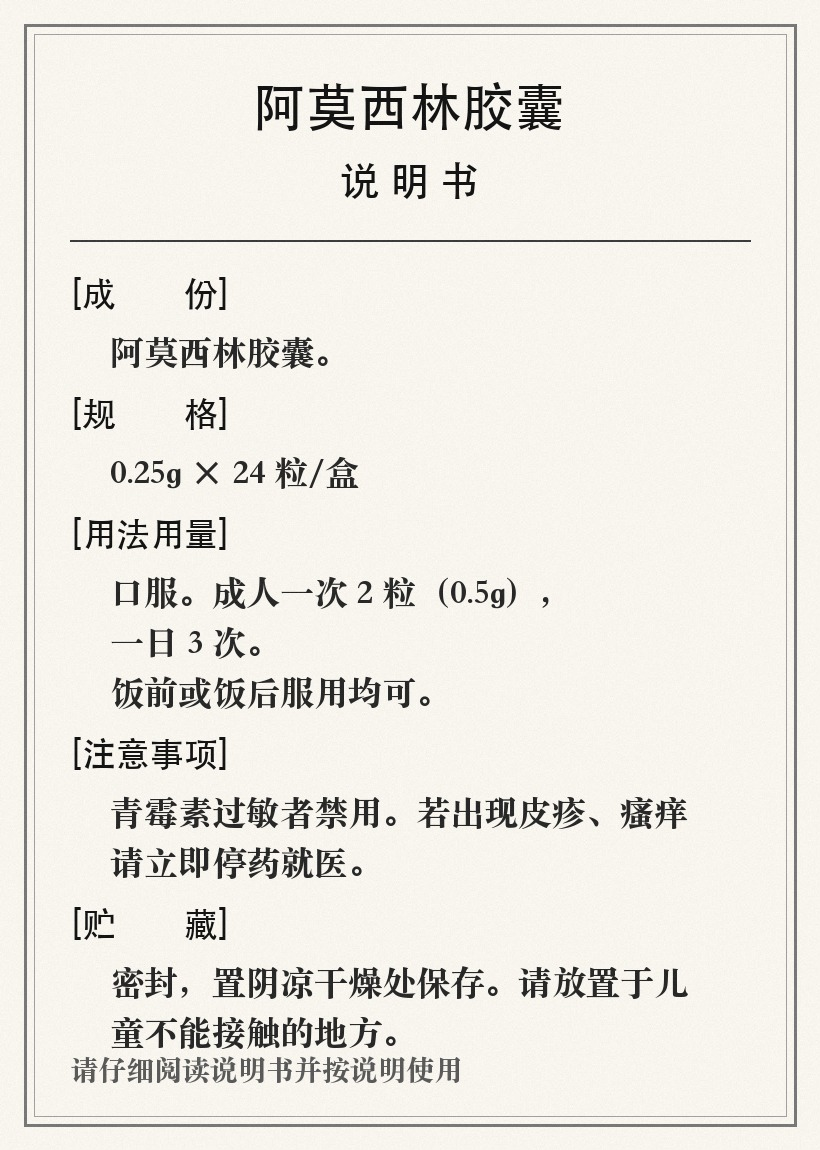
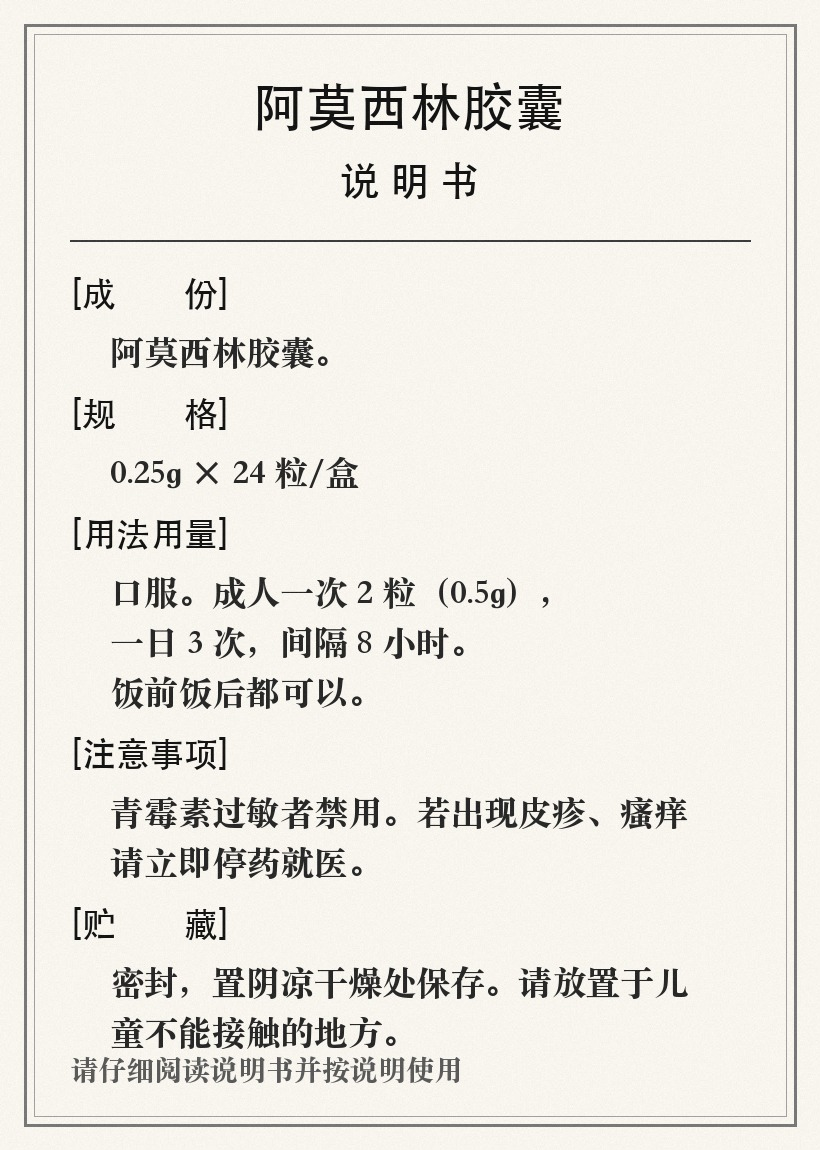
assets: 说明书图逐字对齐 mock.md 8种药JSON（阿莫西林/二甲双胍缓释片/布洛芬缓释胶囊），素材清单标注零AI方案下的新用途

Changed region(s): [[0.2134, 0.5478, 0.5488, 0.6391]]

diff --git a/素材收集清单.md b/素材收集清单.md
@@ -8,6 +8,7 @@
 ## A. 图片素材（给 VLM 图片理解用，存入 `assets/images/`）
 
 > ✅ 已全部生成本地文件（PIL 程序绘制，无版权风险，演示不依赖网络）。
+> ⚠ 方案定稿为零 AI 纯前端：A1/A2/A4/A5/A6 原定「VLM 接口测试」用途降级为**备用**（评委追问识别能力时可展示）；A3 说明书图升级为路演核心道具。
 
 | # | 素材 | 文件 | 用途 | 状态 |
 |---|---|---|---|---|
@@ -19,21 +20,25 @@
 | A6 | 非图片文件 | `note.txt`、`sample.pdf`、`animation.gif` | 错误格式测试 3.4 | ✅ |
 | A7 | **演示保底图** | 复用 `drug_amoxicillin.jpg`（文字最大最清晰） | 路演第一张，确保开门红 | ✅ |
 
-### 定题核心：三种药「三行大字」内容速查（B 写 mock / C 渲染结果页 / D 测试，三方以此为准）
+### 定题核心：三种药「三行大字」内容速查（逐字对齐 `shared/mock.md` 8 种药 JSON）
 
-| 药品 | 一次几片 | 一天几次 | 饭前还是饭后 | 特别提醒 |
+> **方案已定稿为纯前端单文件 `index.html`（零后端、零 AI、零网络）**：说明书图不再喂给 AI 识别，
+> 而是作为**路演道具**（打印后手持做假拍照动作）与兜底录屏素材。图上文字必须与 JSON 逐字一致，防止穿帮。
+
+| 药品 | 一次几片 | 一天几次 | 饭前还是饭后 | note / warning |
 |---|---|---|---|---|
-| 阿莫西林胶囊（0.25g） | **2 粒**（0.5g） | **3 次** | 饭前饭后均可 | 青霉素过敏禁用 |
-| 盐酸二甲双胍片（0.5g） | **1 片** | **2 次**（早晚） | **随餐服用** | 肾功能不全禁用；服药忌饮酒 |
-| 布洛芬缓释片（0.2g） | **1 片** | **≤4 次**（间隔 6 小时） | **饭后服用** | 解热≤3天，止痛≤5天 |
+| 阿莫西林胶囊（`amoxi`） | **一次 2 粒** | **一天 3 次** | 饭前饭后都可以，间隔 8 小时 | warning：青霉素过敏者禁用 |
+| 二甲双胍缓释片（`metfor`） | **一次 1 片** | **一天 2 次** | 随餐或饭后马上吃 | note：空腹吃容易拉肚子 |
+| 布洛芬缓释胶囊（`ibu`） | **一次 1 粒** | **一天 2 次** | 饭后吃 | note：空腹吃伤胃；warning：有胃病、哮喘请先问医生 |
 
-> 说明书图片上的文字与上表完全一致，拍照识别结果、mock 假数据、前端三行大字 三者对齐，演示不穿帮。
+> 其余 5 种（头孢克肟/硝苯地平/感冒灵/阿托伐他汀/氨氯地平）走「从常用药里选」入口，无需道具图，数据以 `shared/mock.md` 为唯一权威。
 
 ---
 
 ## B. 音频素材（给 ASR 语音识别用，存入 `assets/audio/`）
 
 > ✅ 已用 macOS 婷婷语音合成（16bit/22.05kHz wav，无版权风险）。
+> ⚠ 方案定稿后朗读走浏览器 `speechSynthesis` 实时合成（rate 0.85，见 mock.md 第 3 节）；本目录 wav 作为 **TTS 失效时的兜底演示素材**与「无声环境」备用。
 
 | # | 素材 | 文件 | 状态 |
 |---|---|---|---|
